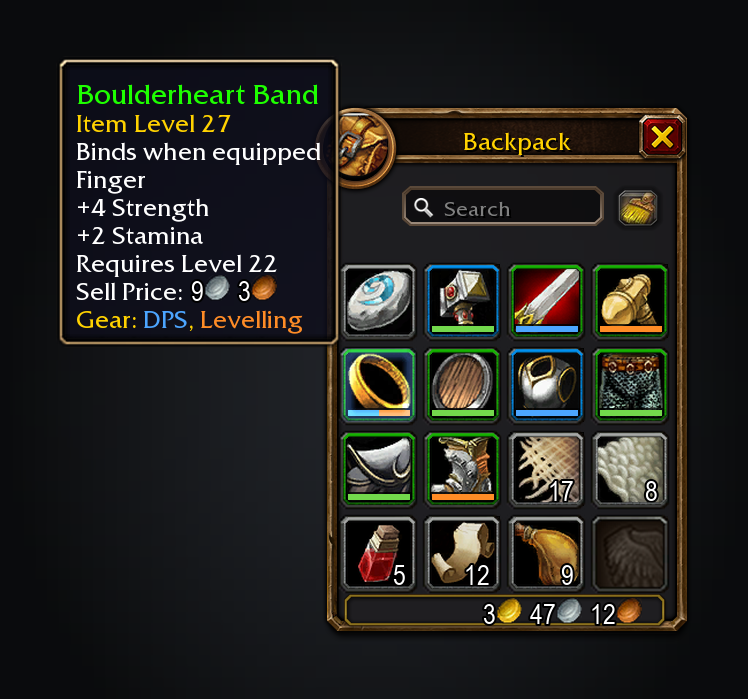
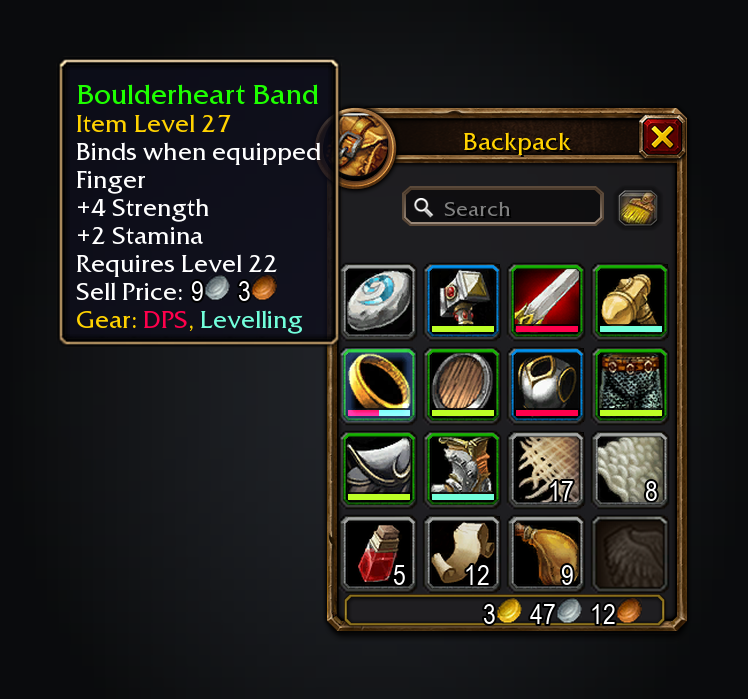
feat(gear): glow the group border; keep group colours clear of item quality
The border mark gains the bags' new-item glow (bags-glow-white, ADD blend),
tinted with the group colour and sliced per group like the border. Slicing
reads the atlas's tex coords from C_Texture.GetAtlasInfo so each slice maps
onto its share of the atlas region.

The default palette sat on top of the quality colours: measured by CIEDE2000
its orange was 2.9 from Legendary and its blue 6.7 from Rare. The new five
(crimson, aquamarine, chartreuse, pink, indigo) come from a greedy search
maximising distance from every GlobalColor quality colour and each other;
all stay 17.7 or more away. The next candidates fall near Legendary or
Uncommon, so a sixth list repeats a colour instead. Stored colours still on a
retired default move to the new entry at the same place; hand-picked colours
are left alone. README screenshots regenerated with the new colours.

Claude-Session: https://claude.ai/code/session_016cB4EsmY8J7vcvboaHNcoS

diff --git a/tools/screenshots.py b/tools/screenshots.py
@@ -36,7 +36,7 @@ PLAYER_LEVEL = 22
 MARGIN = 28
 
 # Gear.lua PALETTE, taken in turn as the groups were created.
-GROUPS = {"DPS": (0.3, 0.65, 1), "Levelling": (1, 0.55, 0.15), "Tank": (0.45, 0.85, 0.3)}
+GROUPS = {"DPS": (1, 0, 0.3), "Levelling": (0.45, 1, 0.86), "Tank": (0.74, 1, 0.15)}
 HOVERED = 4
 # Backpack slots in order: (itemID, stack count, groups).
 BAG = [

diff --git a/README.md b/README.md
@@ -35,7 +35,7 @@ When another addon already does one of these jobs, that feature is greyed out an
 
 **Gear**
 - **Ctrl+Right-click** a bag item to put it in a named group, such as Healing, DPS or Levelling, or to start a new one. The same menu equips a whole group, or an Equipment Manager set the item is in, in one click.
-- Each group has its own colour, which you can change from the same menu. Grouped items get a strip in that colour along the bottom of their bag slot, split when an item is in several groups, and their tooltip names the groups in colour. A coloured border in place of the quality border, coloured dots or no mark are options. Groups are kept per character.
+- Each group has its own colour, which you can change from the same menu. Grouped items get a strip in that colour along the bottom of their bag slot, split when an item is in several groups, and their tooltip names the groups in colour. A glowing coloured border in place of the quality border, coloured dots or no mark are options. Groups are kept per character.
 - Equipping a fishing pole remembers the weapons it replaced as a **Before fishing** group, so they stand out in your bags. Ctrl+Right-click one to put them back on.
 - No modifier keys needed: pick **Mark junk** or **Group gear** from a bag's portrait menu and the cursor changes, like the merchant's repair mode. Click bag items to mark them or open their gear menu; right-click, close your bags or enter combat to stop.
 
